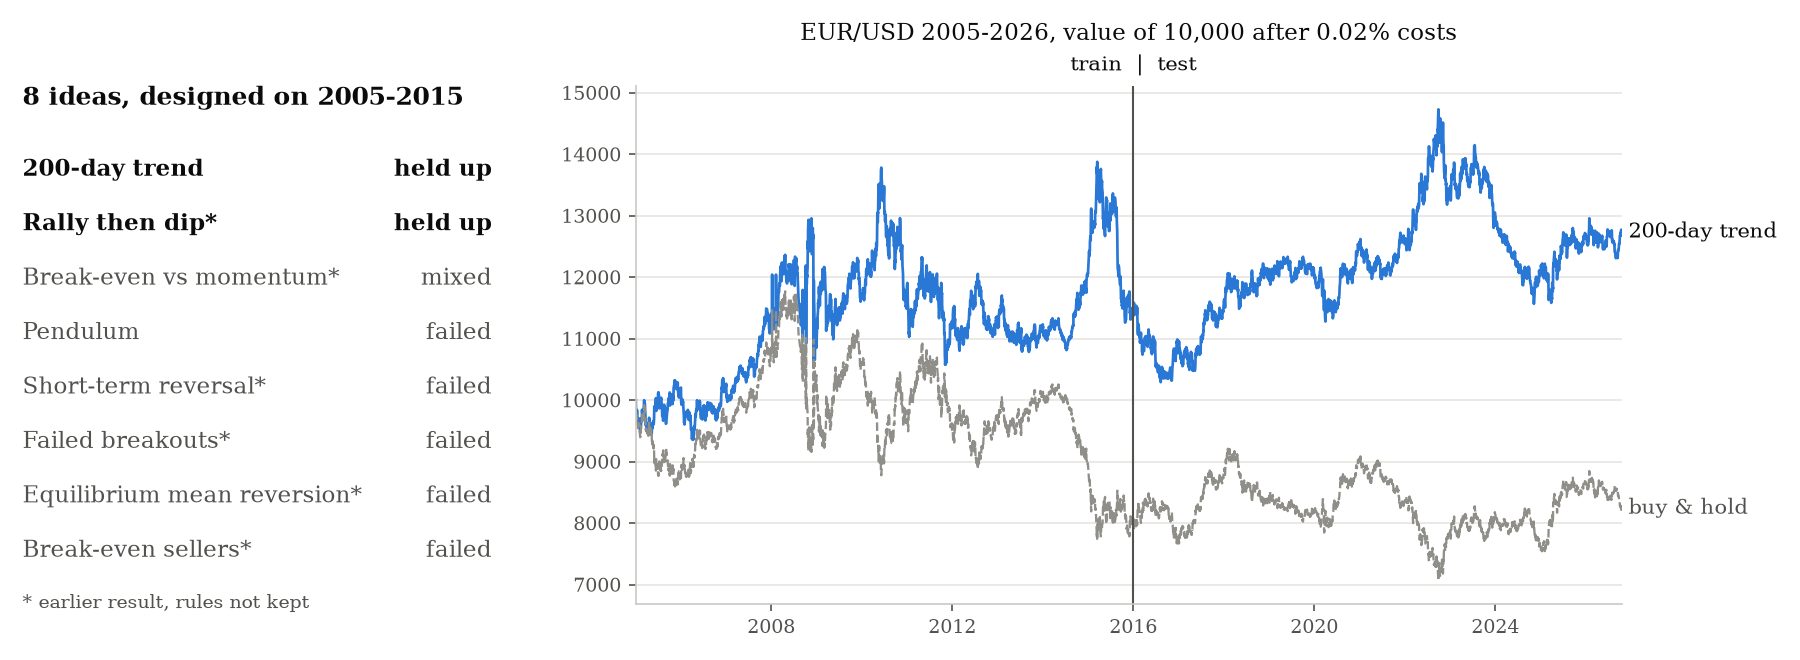
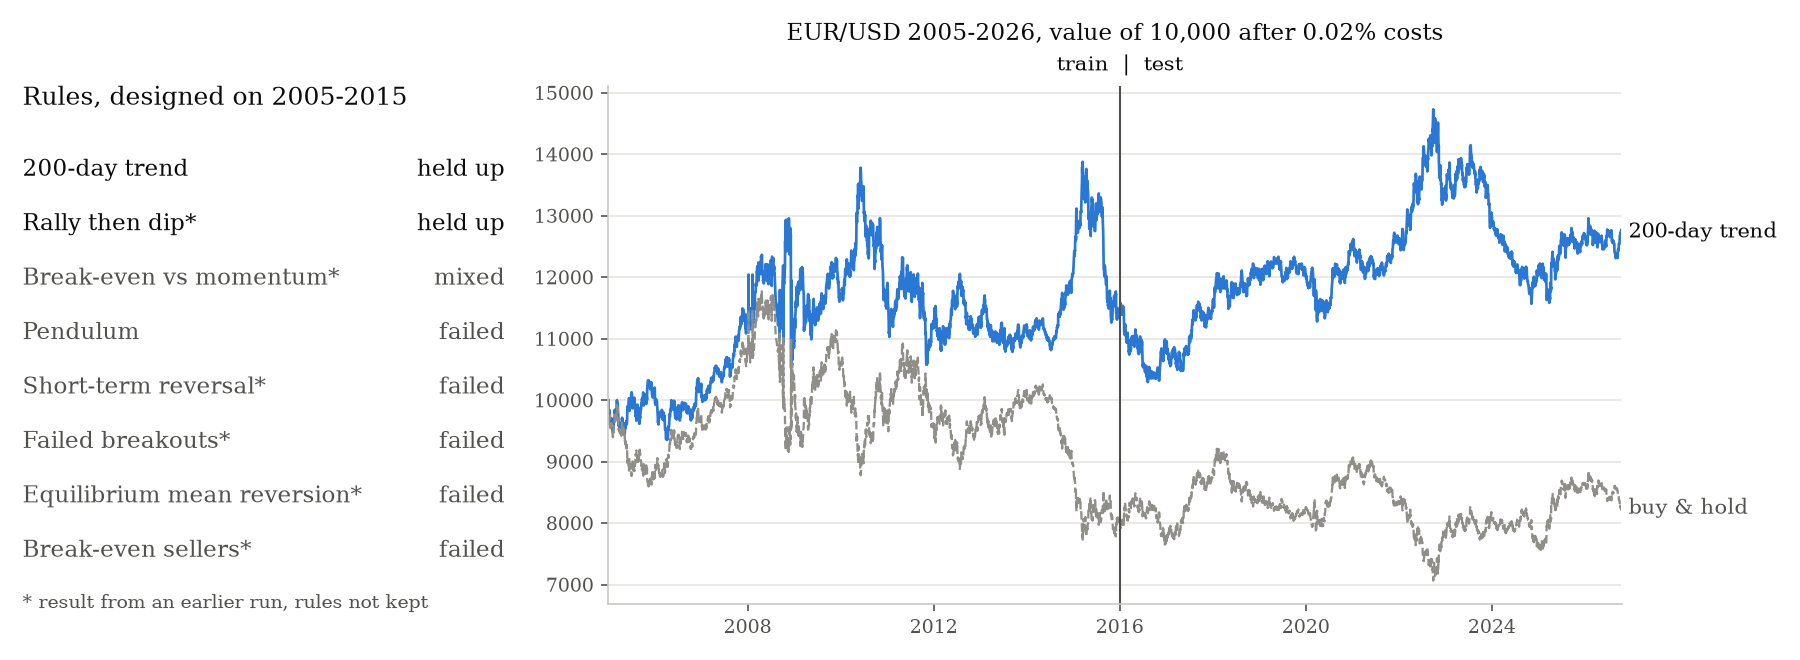
Neutral wording and a quieter top of the page
The slogan headline is replaced by a plain title, the result in one
line, and one line on how rules are tested. Phrases that editorialised
("an idea that failed", "a real edge shouldn't depend on one exact
number", "what noise looks like") are now plain statements. Bold text
in the rule list and the headline picture is gone; the held-up rules
are set apart by darker text only. All numbers are unchanged.

The engine's pendulum description is reworded the same way, copied into
the notebook, and the notebook re-run.

diff --git a/app.py b/app.py
@@ -24,15 +24,17 @@ STYLE = """
     max-width: 1100px; margin: 0 auto; padding: 2.5rem clamp(1rem, 4vw, 3rem) 2rem;
 }
 h1, h2, h3, h4, h5, .lead {font-family: Georgia, "Times New Roman", serif !important; color: #0b0b0b;}
-[data-testid="stMarkdownContainer"] p.lead {font-size: clamp(1.8rem, 4vw, 2.7rem); line-height: 1.15; font-weight: 600;
-    margin: 0 0 0.6rem;}
-[data-testid="stMarkdownContainer"] p.conclusion {font-size: 1.15rem; color: #52514e; margin-bottom: 1.2rem;}
+h2, h3, h4, h5 {font-weight: 500 !important;}
+[data-testid="stMarkdownContainer"] p.lead {font-size: clamp(1.6rem, 3.4vw, 2.2rem); line-height: 1.2; font-weight: 500;
+    margin: 0 0 0.5rem;}
+[data-testid="stMarkdownContainer"] p.conclusion {font-size: 1.1rem; color: #0b0b0b; margin-bottom: 0.2rem;}
+[data-testid="stMarkdownContainer"] p.method {font-size: 0.95rem; color: #52514e; margin-bottom: 1.4rem;}
 .ideas {font-size: 0.95rem; line-height: 1.9;}
 .ideas div {display: flex; justify-content: space-between; border-bottom: 1px solid #ecebe7;}
-.ideas .held {font-weight: 600; color: #0b0b0b;}
+.ideas .held {color: #0b0b0b;}
 .ideas .other {color: #6b6a66;}
 .ideas .note {border: none; font-size: 0.8rem; color: #6b6a66; line-height: 1.4; padding-top: 0.4rem;}
-.number {font-family: Georgia, serif; font-size: 2.6rem; font-weight: 600; line-height: 1; color: #0b0b0b;}
+.number {font-family: Georgia, serif; font-size: 2.4rem; font-weight: 500; line-height: 1; color: #0b0b0b;}
 [data-testid="stMetricValue"] > div {overflow: visible; text-overflow: clip; white-space: nowrap;}
 .katex-display {overflow-x: auto; overflow-y: hidden; padding: 0.25rem 0;}
 </style>
@@ -65,10 +67,10 @@ Signals use the close and trades happen at the next day's open.
 CHECKS = """
 | Check | What it does |
 |---|---|
-| Next-day fills | Signals use the close, orders fill at the next day's open, so a rule never trades on a price it could not have seen |
-| Train/test split | Rules are chosen on one period and judged on a later one they never saw |
-| Random benchmark | 300 strategies with the same holding periods, placed at random times. A real edge should beat most of them |
-| Sensitivity | Every number in the rules is moved to 0.5x, 0.75x, 1.25x and 1.5x. A lucky rule shows up as one good cell |
+| Next-day fills | Signals use the close and orders fill at the next day's open, so no trade uses a price that was not yet known |
+| Train/test split | Rules are set on one period and evaluated on a later period |
+| Random benchmark | 300 strategies with the same holding periods, placed at random times |
+| Sensitivity | Every number in the rules is moved to 0.5x, 0.75x, 1.25x and 1.5x |
 | Number search | Looks for better numbers on the train period only, then reports how they do on the test period |
 | Cost check | Reruns without costs to show how much of the return costs took |
 """
@@ -118,15 +120,16 @@ def ideas_html():
     rows = "".join(
         f'<div class="{"held" if outcome == "held up" else "other"}"><span>{name}</span><span>{outcome}</span></div>'
         for name, outcome in study.IDEAS)
-    note = (f'<div class="note">{study.NOT_RERUN} Earlier result. These rules were not kept, so they '
-            'can\'t be rerun here.</div>')
-    return f'<div class="ideas"><strong>8 ideas on EUR/USD</strong>{rows}{note}</div>'
+    note = f'<div class="note">{study.NOT_RERUN} Result from an earlier run. The rules were not kept.</div>'
+    return f'<div class="ideas"><strong>Rules, designed on 2005-2015</strong>{rows}{note}</div>'
 
 
 def top_of_page():
-    st.markdown('<p class="lead">A backtester built to catch me fooling myself.</p>'
-                '<p class="conclusion">I tested 8 trading ideas on EUR/USD, designed on 2005-2015 and judged '
-                'on 2016-2026. Five failed, one was mixed, two held up.</p>', unsafe_allow_html=True)
+    st.markdown('<p class="lead">Backtester</p>'
+                '<p class="conclusion">8 trading rules for EUR/USD, designed on 2005-2015 and tested on 2016-2026: '
+                '2 held up, 1 was mixed, 5 failed.</p>'
+                '<p class="method">Each rule is tested on years it was not designed on, against random strategies '
+                'and with its numbers shifted.</p>', unsafe_allow_html=True)
     try:
         with st.spinner("Loading the study..."):
             h = headline()
@@ -139,12 +142,11 @@ def top_of_page():
         st.image(h["chart"], width="stretch")
     rnd = h["random"]
     with st.container(border=True):
-        number, text = st.columns([1, 4], vertical_alignment="center")
+        number, text = st.columns([1, 6], vertical_alignment="center")
         number.markdown(f'<div class="number">{rnd["sharpe_beaten_pct"]:.0f}%</div>', unsafe_allow_html=True)
-        text.markdown(f"of {rnd['runs']} random strategies with the same time in the market were beaten by the "
-                      f"200-day trend rule, ranked by Sharpe ({h['full_return']:+.1f}% against "
-                      f"{h['bh_return']:+.1f}% for buy and hold). Rally then dip can't be benchmarked: its "
-                      "rules were not kept.")
+        text.markdown(f"of {rnd['runs']} random strategies with the same time in the market had a lower Sharpe "
+                      f"ratio than the 200-day trend rule. Return {h['full_return']:+.1f}%, buy and hold "
+                      f"{h['bh_return']:+.1f}%. Rally then dip has no benchmark because its rules were not kept.")
 
 
 # ---- Your own backtest ----
@@ -190,7 +192,7 @@ def sidebar_inputs():
                                                      value=float(d["position_pct"]), step=5.0)
         settings["target_vol_pct"] = form.number_input(
             "Target volatility (%)", min_value=0.1, value=None, placeholder="off",
-            help="Hold less when the asset is jumpy. E.g. 15.")
+            help="Scales the position down when volatility is high. E.g. 15.")
         settings["rebalance_pct"] = form.number_input(
             "Rebalance band (%)", min_value=0.0, value=float(d["rebalance_pct"]), step=1.0,
             help="Only trade when the position is this far from its target.")
@@ -347,7 +349,7 @@ def train_test_tab(r, split_date):
         st.info("Switch to advanced mode and set a train/test split date to see how the rules did "
                 "on each period separately.")
         return
-    st.caption(f"Split at {split_date}. A rule that only works before the split was probably fitted to the past.")
+    st.caption(f"Split at {split_date}. Train: the period the rules were set on. Test: the period after it.")
     rows = []
     for name, part in (("Train", r["train"]), ("Test", r["test"])):
         m, bm = part["metrics"], part["bh_metrics"]
@@ -379,7 +381,7 @@ def robustness_tab(ticker, r, store):
         st.write("Not available: the rules have no numbers to vary.")
     else:
         st.write(f"**{sens['stable_pct']:.0f}%** of {sens['tested']} nearby settings beat buy & hold "
-                 f"(Sharpe {sens['bh_sharpe']:.2f}). A real edge shouldn't depend on one exact number.")
+                 f"(Sharpe {sens['bh_sharpe']:.2f}).")
     # the heatmap needs two numbers in the rules, so a rule like PRICE > MA200 only gets the histogram
     notes = []
     if rnd is not None:
@@ -425,8 +427,8 @@ def robustness_tab(ticker, r, store):
         st.dataframe(compare, width="stretch")
         if variants["split"]:
             it, yt = variants["improved_test"]["metrics"], variants["your_test"]["metrics"]
-            st.write(f"On the test period only: Sharpe **{it['sharpe']:.2f}** improved vs **{yt['sharpe']:.2f}** "
-                     "yours. If the improvement disappears here, the search was just fitting the past.")
+            st.write(f"Test period only: Sharpe **{it['sharpe']:.2f}** with the new numbers, "
+                     f"**{yt['sharpe']:.2f}** with yours. The search used the train period only.")
 
 
 def show_study(store):
@@ -476,23 +478,22 @@ def pendulum_study(end):
 
 def pendulum_section():
     d = bt.DEFAULT_STUDY
-    with st.expander("The pendulum: an idea that failed"):
-        st.write("Does EUR/USD move like a pendulum? The 60-day average is the bottom of the swing and price "
-                 "is the pendulum. Rules were set on 2005-2015 and tested on 2016 onwards.")
-        st.caption("Equation of motion, for small swings")
+    with st.expander("Pendulum model (failed)"):
+        st.write("The model treats the 60-day average as the bottom of a pendulum's swing and the price as the "
+                 "pendulum. Rules were set on 2005-2015 and tested from 2016 on.")
+        st.caption("Equation of motion for small swings")
         st.latex(r"\frac{d^2\theta}{dt^2} = -\omega^2\,\theta")
-        st.caption(r"Its energy ½v² + ½ω²θ² tells you how far the swing will go")
+        st.caption(r"From the constant energy ½v² + ½ω²θ², the amplitude of the swing")
         st.latex(r"\text{amplitude} = \sqrt{\theta^2 + \frac{v^2}{\omega^2}}")
         st.markdown(
-            "- **θ**: how far price is from its 60-day average, in standard deviations\n"
-            "- **v**: how much θ changed since yesterday\n"
-            "- **ω²**: 0.01, how strongly price is pulled back (a swing of about 63 days)\n\n"
-            "Markets aren't a perfect pendulum, so friction lets the swing keep only 80% of that.\n\n"
-            "Buy when a swing bottoms out below -1.5 and sell when it reaches 80% of the predicted "
-            "amplitude on the other side. If price runs past 3 standard deviations, the average has "
-            "probably moved, so get out. Shorts are the mirror image.\n\n"
-            "The first version used the full equation with sin and arccos and assumed the market conserves "
-            "energy. It was rewritten because the physics was wrong, not to improve the result.")
+            "- **θ**: distance of the price from its 60-day average, in standard deviations\n"
+            "- **v**: change in θ since the previous day\n"
+            "- **ω²**: 0.01, a full swing of about 63 days\n\n"
+            "Buy when a swing turns below θ = -1.5. Sell when θ reaches 0.8 times the amplitude on the "
+            "other side; the factor 0.8 accounts for friction. Close the position if θ passes 3. Shorts are "
+            "the mirror image.\n\n"
+            "An earlier version used the full equation with sin and arccos and assumed constant energy. It was "
+            "replaced because the physics was incorrect, not because of its result.")
         st.code("\n".join(d["settings"][key] for _, key in bt.RULE_SIDES), language=None, wrap_lines=True)
         return st.button("Run the pendulum study with all checks")
 
@@ -505,14 +506,14 @@ def main():
     st.write("")
     st.markdown("Use the sidebar to test your own rules on any ticker from Yahoo Finance, from any start date.")
     run_default = pendulum_section()
-    with st.expander("The checks every backtest goes through"):
+    with st.expander("Checks in every backtest"):
         st.markdown(CHECKS)
-    with st.expander("How to write rules"):
+    with st.expander("Rule syntax"):
         st.markdown(GUIDE)
 
     if run_default:
         st.session_state["problems"] = []
-        with st.spinner("Running the pendulum study with all checks. This can take a minute...", show_time=True):
+        with st.spinner("Running the pendulum study with all checks. This takes about a minute.", show_time=True):
             store = pendulum_study(date.today().isoformat())
         if not store["results"]:
             pendulum_study.clear()  # e.g. Yahoo was unreachable: try again next time
@@ -522,7 +523,7 @@ def main():
         st.session_state["problems"] = problems
         st.session_state.pop("study", None)
         if not problems:
-            message = ("Running the backtest and the robustness checks. This can take a minute..."
+            message = ("Running the backtest and the robustness checks. This takes about a minute."
                        if advanced else "Running the backtest...")
             with st.spinner(message, show_time=True):
                 st.session_state["study"] = {**analyse(*inputs, advanced), "title": "Your backtest"}

diff --git a/backtester.py b/backtester.py
@@ -51,21 +51,19 @@ _TURN = f"0.8 * SQRT(({_T}) ^ 2 + ({_T} - {_T1}) ^ 2 / 0.01)"
 
 DEFAULT_STUDY = {
     "physics": """
-Default study: does EUR/USD move like a pendulum?
+Default study: pendulum model on EUR/USD
 
-The 60-day average is the bottom of the swing, and price is the pendulum.
-  θ   how far price is from its 60-day average, in standard deviations
-  v   how much θ changed since yesterday
-  ω²  0.01, how strongly price is pulled back (a swing of about 63 days)
+The 60-day average is the bottom of the swing and the price is the pendulum.
+  θ   distance of the price from its 60-day average, in standard deviations
+  v   change in θ since the previous day
+  ω²  0.01, a full swing of about 63 days
 
-For small swings a pendulum follows  d²θ/dt² = -ω²θ.  Its energy ½v² + ½ω²θ² tells you how far
-the swing will go:  amplitude = √(θ² + v²/ω²).  Markets aren't a perfect pendulum, so friction
-lets the swing keep only 80% of that, and news can knock it off course completely.
+For small swings  d²θ/dt² = -ω²θ.  From the constant energy ½v² + ½ω²θ², the amplitude of
+the swing is  √(θ² + v²/ω²).
 
-Buy when a swing bottoms out below -1.5 and sell when it reaches 80% of the predicted
-amplitude on the other side. If price runs past 3 standard deviations, the average has
-probably moved, so get out. Shorts are the mirror image.
-Rules were set using 2005-2015 and tested on 2016 onwards.""",
+Buy when a swing turns below θ = -1.5. Sell when θ reaches 0.8 times the amplitude on the
+other side; the factor 0.8 accounts for friction. Close the position if θ passes 3.
+Shorts are the mirror image. Rules were set on 2005-2015 and tested from 2016 on.""",
     "tickers": ["EURUSD=X"],
     "start": "2005-01-01",
     "end": date.today().isoformat(),

diff --git a/study.py b/study.py
@@ -25,7 +25,7 @@ TREND = {
     **bt.QUICK_DEFAULTS,
 }
 
-# (name, result) for the 8 ideas, all designed on 2005-2015. Only the 200-day rule and the pendulum
+# (name, result) for the 8 rules, all designed on 2005-2015. Only the 200-day rule and the pendulum
 # are in this repository. The other results come from earlier runs whose rules were not kept, so they
 # can't be rerun; NOT_RERUN marks them.
 NOT_RERUN = "*"
@@ -75,16 +75,16 @@ def plot_equity(result):
 
 def _draw_ideas(ax):
     ax.axis("off")
-    ax.text(0, 1, "8 ideas, designed on 2005-2015", fontsize=12, color=INK, weight="bold",
+    ax.text(0, 1, "Rules, designed on 2005-2015", fontsize=12, color=INK,
             transform=ax.transAxes, va="top")
     for i, (name, outcome) in enumerate(IDEAS):
         y = 0.86 - i * 0.105
         strong = outcome == "held up"
-        style = {"fontsize": 11, "color": INK if strong else MUTED, "weight": "bold" if strong else "normal",
+        style = {"fontsize": 11, "color": INK if strong else MUTED,
                  "transform": ax.transAxes, "va": "top"}
         ax.text(0, y, name, **style)
         ax.text(1, y, outcome, ha="right", **style)
-    ax.text(0, 0.86 - len(IDEAS) * 0.105, f"{NOT_RERUN} earlier result, rules not kept",
+    ax.text(0, 0.86 - len(IDEAS) * 0.105, f"{NOT_RERUN} result from an earlier run, rules not kept",
             fontsize=9, color=MUTED, transform=ax.transAxes, va="top")
 
 

diff --git a/README.md b/README.md
@@ -2,20 +2,18 @@
 
 [![tests](https://github.com/ron-btnk/Backtester/actions/workflows/tests.yml/badge.svg)](https://github.com/ron-btnk/Backtester/actions/workflows/tests.yml)
 
-## A backtester built to catch me fooling myself.
+8 trading rules for EUR/USD, designed on 2005-2015 and tested on 2016-2026: 2 held up, 1 was mixed, 5 failed. Each rule is tested on years it was not designed on, against random strategies and with its numbers shifted.
 
-I tested 8 trading ideas on EUR/USD, designed on 2005-2015 and judged on 2016-2026. Five failed, one was mixed, two held up.
+![8 rules marked held up, mixed or failed, next to the 200-day trend rule's portfolio value against buy and hold on EUR/USD, with the train | test split at 2016](docs/headline.png)
 
-![8 ideas marked held up, mixed or failed, next to the 200-day trend rule's portfolio value against buy and hold on EUR/USD, with the train | test split at 2016](docs/headline.png)
+**88%** of 300 random strategies with the same time in the market had a lower Sharpe ratio than the 200-day trend rule (263 of 300). Rally then dip has no benchmark because its rules were not kept.
 
-**88%.** The 200-day trend rule beat 263 of 300 random strategies that spent the same time in the market, ranked by Sharpe. Rally then dip can't be benchmarked, because its rules were not kept.
-
-[Open the web app](https://backtester-rbtnk.streamlit.app/) to try your own rules, or run it locally (below).
+Web app: https://backtester-rbtnk.streamlit.app/
 
 <details>
-<summary><b>Run it</b></summary>
+<summary><b>Running it</b></summary>
 
-Online: https://backtester-rbtnk.streamlit.app/. It runs on a small free server that sleeps after 12 hours without visitors, so the first load can take a minute.
+Online: https://backtester-rbtnk.streamlit.app/. The free server sleeps after 12 hours without visitors, so the first load can take a minute.
 
 Locally, as a web app:
 
@@ -35,11 +33,11 @@ To reproduce the numbers and the picture above: `python study.py`.
 </details>
 
 <details>
-<summary><b>The study: 8 ideas on EUR/USD</b></summary>
+<summary><b>The study: 8 rules on EUR/USD</b></summary>
 
 Every rule was designed on 2005-2015 and tested once on 2016-2026. Costs were 0.02% per trade. Buy and hold lost 17.6% from 2005-01-03 to 2026-10-15.
 
-| Idea | What it bets on | Result |
+| Rule | Assumption | Result |
 |---|---|---|
 | 200-day trend | Long above the 200-day average, short below | Held up. +27.4%, positive in both periods (+14.0% train, +10.8% test) |
 | Rally then dip* | Profit-takers cause a dip, latecomers buy it | Held up. About +31%, positive in both periods |
@@ -50,29 +48,29 @@ Every rule was designed on 2005-2015 and tested once on 2016-2026. Costs were 0.
 | Equilibrium mean reversion* | Bet on a return to the average | Failed on 2005-2015, not tested further |
 | Break-even sellers* | Old highs act as resistance, old lows as support | Failed on 2005-2015, not tested further |
 
-\* Result from an earlier run. These rules were not kept, so they can't be rerun or benchmarked.
+\* Result from an earlier run. The rules were not kept, so they cannot be rerun or benchmarked.
 
-The 200-day rule is a classic trend rule, and research found trend rules profitable on currencies in the 1980s and 90s. It was fixed before looking at any data. Its weak spot: one trade made 82% of its profit, so the result rests on a few long trends. Rally then dip was designed for this study, and its sensitivity heatmap was green for every nearby setting. The next test is running both, unchanged, on other currency pairs.
+The 200-day rule is a standard trend rule; published studies found trend rules profitable on currencies in the 1980s and 1990s. It was fixed before any data was examined. One trade made 82% of its profit, so the result depends on a few long trends. Rally then dip was designed for this study; every nearby setting in its sensitivity check beat buy and hold. The next step is to run both rules, unchanged, on other currency pairs.
 
-EUR/USD was chosen because it is the most traded currency pair, costs are low, and its price is not affected by earnings, dividends or stock splits. Many large traders in currencies, such as central banks and companies hedging payments, trade for reasons other than profit, which is where an edge would have to come from.
+EUR/USD was chosen because it is the most traded currency pair, costs are low, and its price is not affected by earnings, dividends or stock splits. Many participants, such as central banks and companies hedging payments, trade for reasons other than profit.
 
 </details>
 
 <details>
-<summary><b>The checks every backtest goes through</b></summary>
+<summary><b>Checks in every backtest</b></summary>
 
 Prices are daily Open, High, Low and Close from Yahoo Finance, with 500 extra days loaded before the start date so long averages are ready on day one.
 
 | Check | What it does |
 |---|---|
-| Next-day fills | Signals use each day's close and orders fill at the next day's open, so a rule never trades on a price it could not have known |
-| Train/test split | Rules are chosen on one period and judged on a later one they never saw |
-| Random benchmark | 300 strategies with the same holding periods, placed at random times. A real edge should beat most of them |
-| Sensitivity | Every number in the rules is moved to 0.5x, 0.75x, 1.25x and 1.5x. A lucky rule shows up as a single good cell in a heatmap |
+| Next-day fills | Signals use each day's close and orders fill at the next day's open, so no trade uses a price that was not yet known |
+| Train/test split | Rules are set on one period and evaluated on a later period |
+| Random benchmark | 300 strategies with the same holding periods, placed at random times |
+| Sensitivity | Every number in the rules is moved to 0.5x, 0.75x, 1.25x and 1.5x and the results are shown in a heatmap |
 | Number search | Looks for better numbers on the training period only, then reports how they do on the test period |
 | Cost check | Reruns without costs to show how much of the return costs took |
 
-Every trade pays a cost as a percentage of the traded value, and short positions pay a daily borrow fee. If a short signal arrives while the strategy is long, the position flips directly. Stops and take profits are checked on the close and filled at the next open. Each backtest ends with a verdict that lists what passed and what failed.
+Every trade pays a cost as a percentage of the traded value, and short positions pay a daily borrow fee. If a short signal arrives while the strategy is long, the position flips directly. Stops and take profits are checked on the close and filled at the next open. Each backtest ends with a summary of the checks.
 
 </details>
 
@@ -111,7 +109,7 @@ Optional settings: position sizing by an indicator, volatility targeting, a reba
 <details>
 <summary><b>The pendulum model</b></summary>
 
-The pendulum model failed. On EUR/USD it did about as well as buy and hold and no better than random timing. Numbers are for 2005-01-03 to 2026-10-15.
+Result: failed. On EUR/USD the model did about as well as buy and hold and no better than random timing. Numbers are for 2005-01-03 to 2026-10-15.
 
 | | Pendulum | Buy and hold |
 |---|---|---|
@@ -157,16 +155,16 @@ Verdict: doesn't hold up
   29% of 28 nearby settings beat buy & hold
 ```
 
-It lost to buy and hold in 2005-2015 (Sharpe -0.13 against -0.07) and beat it in 2016-2026 (0.16 against 0.07), which is what noise looks like. The worst trades were longs held for 4 to 8 months through long declines. In a slow decline the average falls with the price, so the price probably never looks far enough from equilibrium to trigger an exit. The number search found a 48-day window that made +17.7% over the full period but did worse than the original on 2016-2026 alone (Sharpe -0.03 against 0.16), so it was fitting the past.
+It lost to buy and hold in 2005-2015 (Sharpe -0.13 against -0.07) and beat it in 2016-2026 (0.16 against 0.07), a pattern consistent with noise. The worst trades were longs held for 4 to 8 months through long declines. In a slow decline the average falls with the price, so the price rarely moves far enough from it to trigger an exit. The number search found a 48-day window that made +17.7% over the full period but did worse than the original on 2016-2026 alone (Sharpe -0.03 against 0.16), so the search fitted the training period.
 
-This is the second version of the model. The first used the full equation with sin and arccos, which treats θ as a real angle even though it is measured in standard deviations, and it assumed the market conserves energy. In an earlier run it lost 23.1% against 16.6% for buy and hold and beat 25% of random strategies. The model was rewritten because the physics was wrong, not to improve the result, so the second version also had a single test.
+This is the second version of the model. The first used the full equation with sin and arccos, which treats θ as a real angle even though it is measured in standard deviations, and it assumed the market conserves energy. In an earlier run it lost 23.1% against 16.6% for buy and hold and beat 25% of random strategies. It was replaced because the physics was incorrect, not because of its result, and the second version was also tested once.
 
 </details>
 
 <details>
-<summary><b>Why two out of eight is not proof</b></summary>
+<summary><b>Multiple testing</b></summary>
 
-Testing many strategies on the same data produces winners by luck. If a useless rule has a 50% chance of beating buy and hold in a period, and the two periods are independent:
+Testing many strategies on the same data produces winners by luck. If a rule with no predictive value has a 50% chance of beating buy and hold in a period, and the two periods are independent:
 
 $$P(\text{at least one of } n \text{ wins one period}) = 1 - 0.5^n \qquad P(\text{at least one of } n \text{ wins both periods}) = 1 - 0.75^n$$
 
@@ -176,7 +174,7 @@ $$P(\text{at least one of } n \text{ wins one period}) = 1 - 0.5^n \qquad P(\tex
 | 8 | 99.6% | 90.0% | 2.0 |
 | 20 | >99.99% | 99.7% | 5.0 |
 
-Two periods reduce the problem but do not solve it. Eight useless rules would produce two winners in both periods on average, the same number this study found. That is why the random benchmark, the sensitivity check and the fixed 200-day rule matter more than the split itself, and why the next step is testing on currency pairs that were not used to design the rules.
+Two periods reduce the problem but do not solve it. Eight such rules would produce two winners in both periods on average, the same number this study found. That is why the random benchmark, the sensitivity check and the fixed 200-day rule matter more than the split itself, and why the next step is testing on currency pairs that were not used to design the rules.
 
 </details>
 
